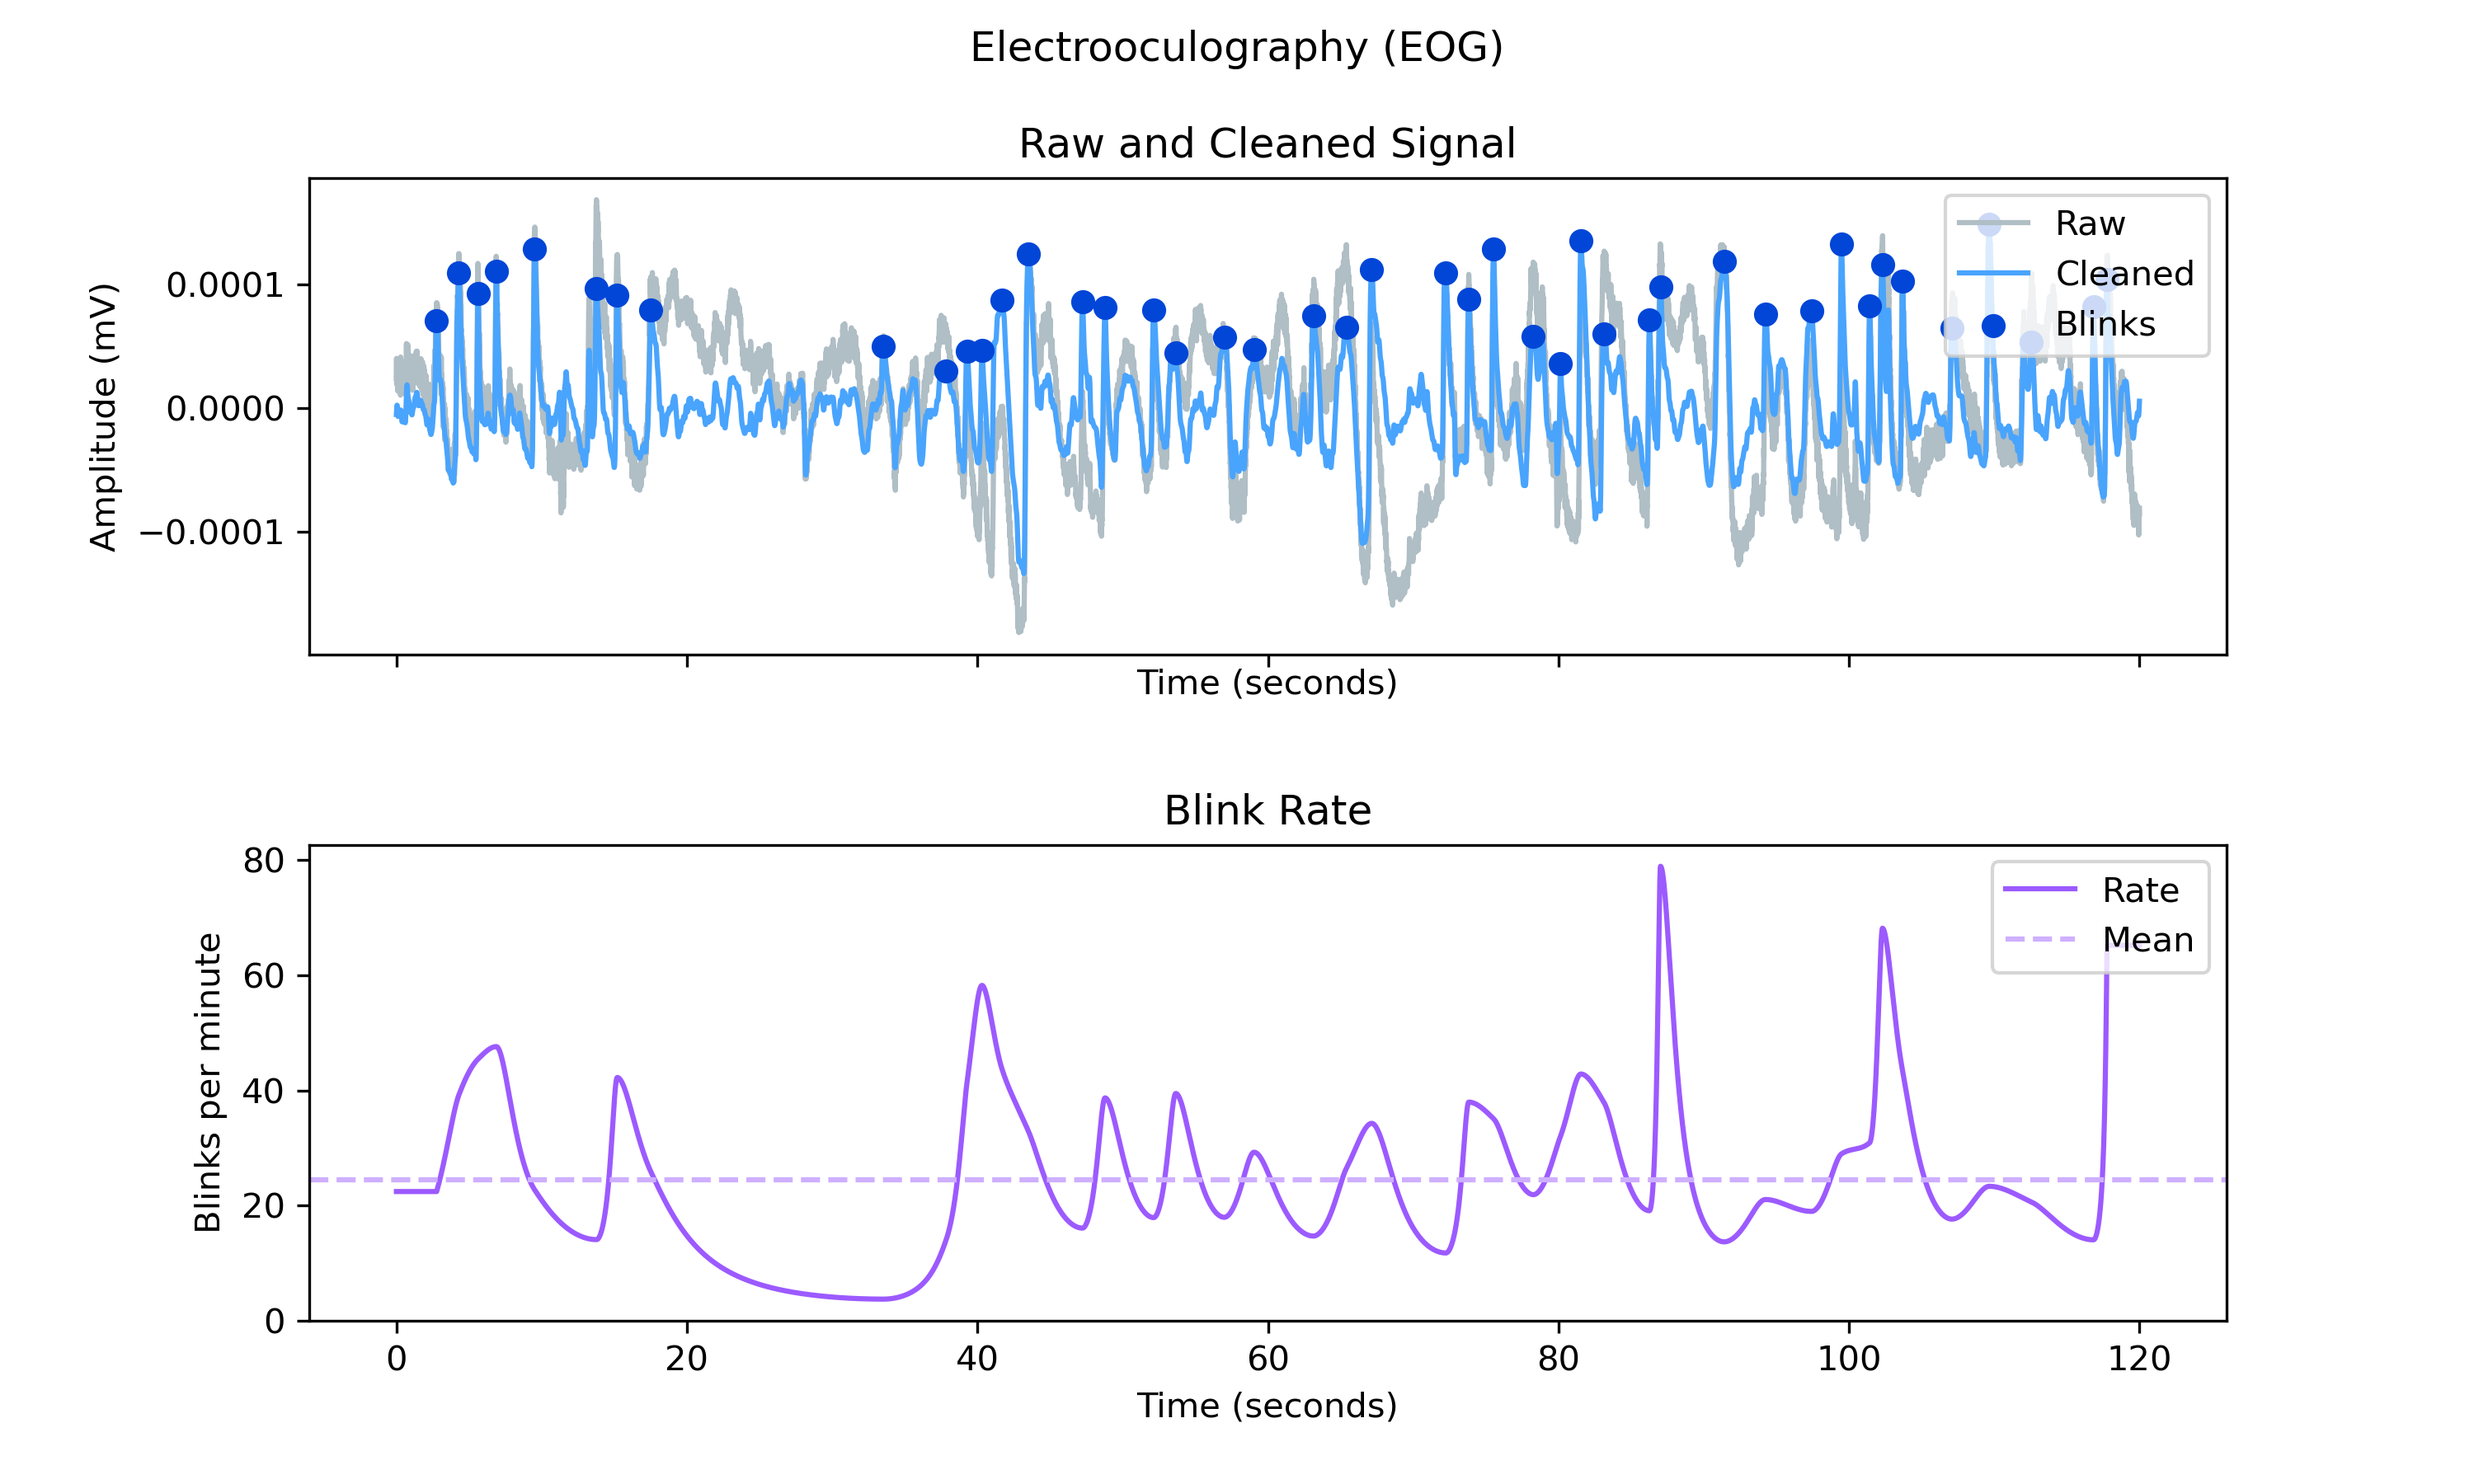
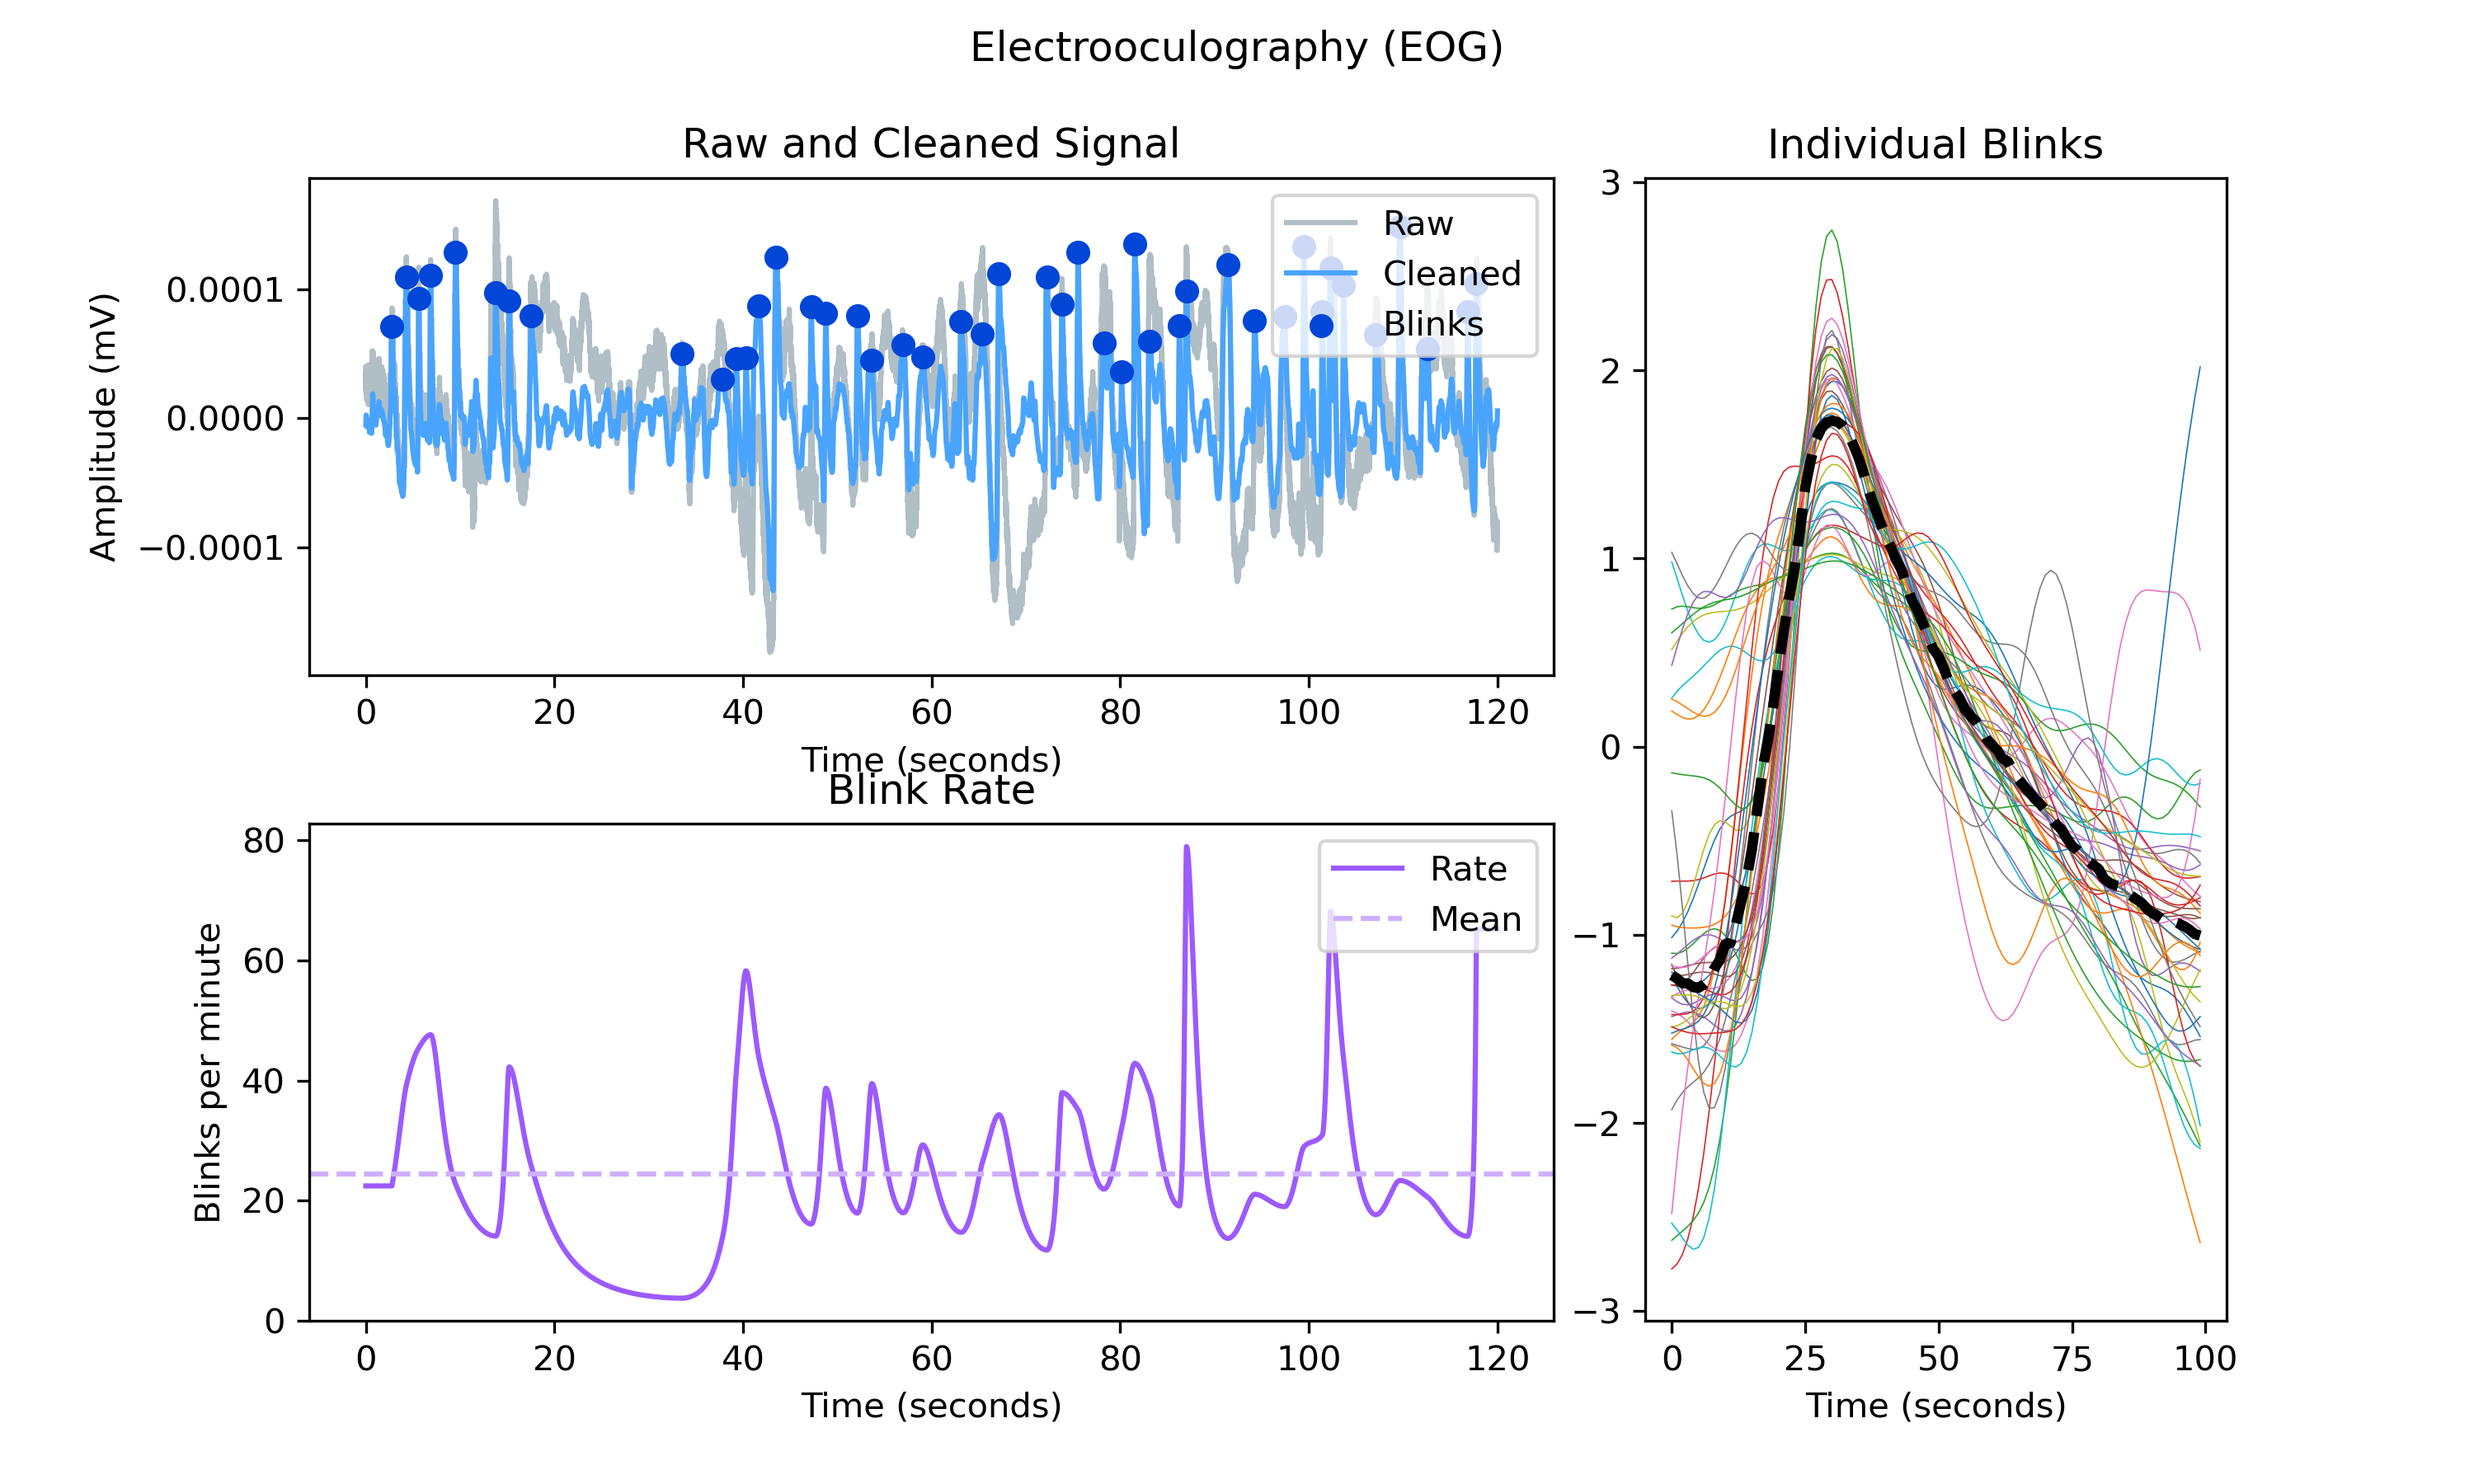
update readme

diff --git a/docs/readme/README_examples.py b/docs/readme/README_examples.py
@@ -158,7 +158,7 @@ eog_signal = nk.data("eog_100hz")
 signals, info = nk.eog_process(eog_signal, sampling_rate=100)
 
 # Plot
-plot = nk.eog_plot(signals, sampling_rate=100)
+plot = nk.eog_plot(signals, peaks=info, sampling_rate=100)
 plot.set_size_inches(10, 6, forward=True)
 plot.savefig("README_eog.png", dpi=300, h_pad=3)
 
